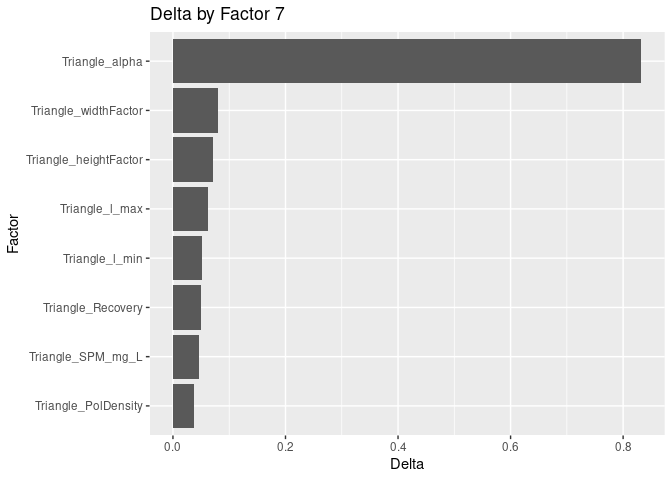
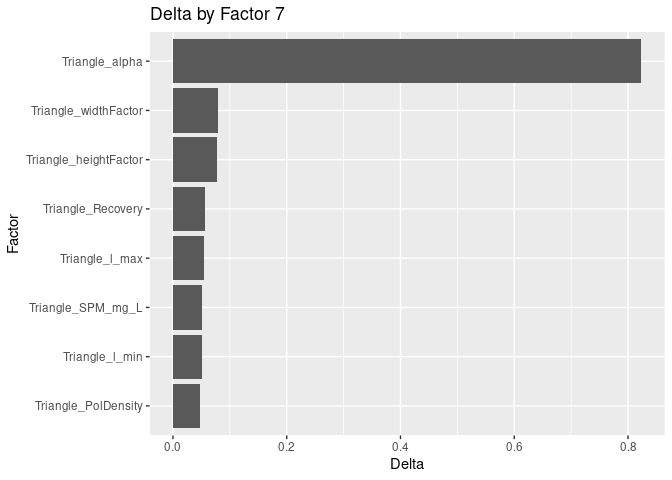
Rerun scripts with detection limit update

diff --git a/07_NumberFromMassConcentration.md b/07_NumberFromMassConcentration.md
@@ -1,6 +1,6 @@
 07_NumberFromMassConcentration
 ================
-2026-07-07
+2026-10-22
 
 Create figures folder if it does not yet exist
 
@@ -41,14 +41,14 @@ approach is applied.
 
 Below table illustrates an example of the dataset from Rijkswaterstaat.
 
-| lab | Inweeg (mg) | Water_type    | Analysis_method | Sampling_method | Location_name | Data_source           | Sample_no | unit | Sampling_date_from | Sampling_date_to | SPM_mg_L_avg | SPM_mg_L_median | SPM_mg_L_min | SPM_mg_L_max | SPM_n | Recovery_min | Recovery_max | Polymer | Concentration_g_kg |
-|:----|------------:|:--------------|:----------------|:----------------|:--------------|:----------------------|----------:|:-----|:-------------------|:-----------------|-------------:|----------------:|-------------:|-------------:|------:|-------------:|-------------:|:--------|-------------------:|
-| RWS |      21.000 | Surface water | TED GC-MS       | centrifuge      | Maas Eijsden  | Freriks et al. (2025) |        11 | g/kg | 2023-11-13         | 2023-11-13       |    58.000000 |            58.0 |           58 |           58 |     1 |         0.86 |          1.0 | PP      |              0.110 |
-| RWS |      18.980 | Surface water | TED GC-MS       | centrifuge      | Maas Eijsden  | Freriks et al. (2025) |        15 | g/kg | 2023-11-27         | 2023-11-27       |    38.000000 |            38.0 |           38 |           38 |     1 |         0.86 |          1.0 | PP      |              0.090 |
-| RWS |      21.050 | Surface water | TED GC-MS       | centrifuge      | Maas Eijsden  | Freriks et al. (2025) |        16 | g/kg | 2023-10-31         | 2023-10-31       |    33.500000 |            33.5 |           31 |           36 |     2 |         0.86 |          1.0 | PP      |              0.180 |
-| RWS |      19.950 | Surface water | TED GC-MS       | centrifuge      | Maas Eijsden  | Freriks et al. (2025) |        17 | g/kg | 2023-11-07         | 2023-11-07       |    37.000000 |            37.0 |           32 |           42 |     2 |         0.86 |          1.0 | PP      |              0.120 |
-| RWS |      17.485 | Surface water | TED GC-MS       | sediment kist   | Maas Eijsden  | Freriks et al. (2025) |        28 | g/kg | 2023-09-05         | 2023-10-03       |     5.976471 |             5.0 |            5 |           13 |    34 |         0.10 |          0.9 | PP      |              0.125 |
-| RWS |      20.060 | Surface water | TED GC-MS       | sediment kist   | Maas Eijsden  | Freriks et al. (2025) |        31 | g/kg | 2023-10-03         | 2023-10-31       |    10.129412 |             5.0 |            5 |           36 |    34 |         0.10 |          0.9 | PP      |              0.080 |
+| Laboratorium | Bemonsteringsdiepte (cm): | Inweeg (mg) | Water_type    | Analysis_method | Sampling_method | Location_name | Data_source           | Sample_no | unit | Sampling_date_from | Sampling_date_to | SPM_mg_L_avg | SPM_mg_L_median | SPM_mg_L_min | SPM_mg_L_max | SPM_n | Recovery_min | Recovery_max | Polymer | Concentration_g_kg |
+|:-------------|--------------------------:|------------:|:--------------|:----------------|:----------------|:--------------|:----------------------|----------:|:-----|:-------------------|:-----------------|-------------:|----------------:|-------------:|-------------:|------:|-------------:|-------------:|:--------|-------------------:|
+| RWS          |                        80 |      21.000 | Surface water | TED GC-MS       | centrifuge      | Maas Eijsden  | Freriks et al. (2025) |        11 | g/kg | 2023-11-13         | 2023-11-13       |    58.000000 |            58.0 |           58 |           58 |     1 |         0.86 |          1.0 | PP      |              0.110 |
+| RWS          |                        80 |      18.980 | Surface water | TED GC-MS       | centrifuge      | Maas Eijsden  | Freriks et al. (2025) |        15 | g/kg | 2023-11-27         | 2023-11-27       |    38.000000 |            38.0 |           38 |           38 |     1 |         0.86 |          1.0 | PP      |              0.090 |
+| RWS          |                        80 |      21.050 | Surface water | TED GC-MS       | centrifuge      | Maas Eijsden  | Freriks et al. (2025) |        16 | g/kg | 2023-10-31         | 2023-10-31       |    33.500000 |            33.5 |           31 |           36 |     2 |         0.86 |          1.0 | PP      |              0.180 |
+| RWS          |                        80 |      19.950 | Surface water | TED GC-MS       | centrifuge      | Maas Eijsden  | Freriks et al. (2025) |        17 | g/kg | 2023-11-07         | 2023-11-07       |    37.000000 |            37.0 |           32 |           42 |     2 |         0.86 |          1.0 | PP      |              0.120 |
+| RWS          |                       100 |      17.485 | Surface water | TED GC-MS       | sediment kist   | Maas Eijsden  | Freriks et al. (2025) |        28 | g/kg | 2023-09-05         | 2023-10-03       |     5.976471 |             5.0 |            5 |           13 |    34 |         0.10 |          0.9 | PP      |              0.125 |
+| RWS          |                       100 |      20.060 | Surface water | TED GC-MS       | sediment kist   | Maas Eijsden  | Freriks et al. (2025) |        31 | g/kg | 2023-10-03         | 2023-10-31       |    10.129412 |             5.0 |            5 |           36 |    34 |         0.10 |          0.9 | PP      |              0.080 |
 
 ## Polymer density
 
@@ -260,13 +260,13 @@ pyrGCMS_data |> pull(Polymer) |> unique()
 pyrGCMS_data |> pull(PolConc_ug_L) |> min()
 ```
 
-    ## [1] 0.2270576
+    ## [1] 0.3981628
 
 ``` r
 pyrGCMS_data |> pull(PolConc_ug_L) |> max()
 ```
 
-    ## [1] 121.8571
+    ## [1] 77.25816
 
 ``` r
 SPMnumber <- pyrGCMS_data |> group_by(Location_name,Sample_no,Sampling_date_from,Sampling_date_to,Sampling_method) |> 
@@ -439,7 +439,7 @@ summarise(
 ```
 
 ``` r
-ConcAlphaRescaledUncertain_PP_L <-readRDS(paste0(project_dir, output_dir, "Data/Rescaled_concentrations_PP_2026-04-09.Rds"))
+ConcAlphaRescaledUncertain_PP_L <-readRDS(paste0(project_dir, output_dir, "Data/Rescaled_concentrations_PP_2026-06-30.Rds"))
 
 PP_averages_table <- ConcAlphaRescaledUncertain_PP_L |>
   filter(OptionType == "concentrationOption3") |>
@@ -509,14 +509,14 @@ SampleNumber = 7 # change this to see how this is for different samples (see fig
     ## 
     ## Csiszar f-divergence indices with TV 
     ##      original
-    ## X1 0.04715257
-    ## X2 0.04997534
-    ## X3 0.03705562
-    ## X4 0.05204220
-    ## X5 0.06152164
-    ## X6 0.07978510
-    ## X7 0.07190987
-    ## X8 0.83226398
+    ## X1 0.05090330
+    ## X2 0.05565432
+    ## X3 0.04677197
+    ## X4 0.05073797
+    ## X5 0.05460519
+    ## X6 0.07983564
+    ## X7 0.07757698
+    ## X8 0.82329898
 
 ``` r
       #prepare output for ggplot

diff --git a/06_MassDataPrep.md b/06_MassDataPrep.md
@@ -9,13 +9,19 @@ letter report 2026-0069.
 
 The mass based data measured using TED-GC-MS are provided by
 Rijkswaterstaat (RWS) for surface waters in the Netherlands. The data is
-partly described in (Freriks, Oversteeg van, and Zemmelink 2023) and
-contains the concentrations of microplastics in SPM as sampled using a
-sediment box or centrifuge at Eijsden and Lobith.
+partly described in (Freriks et al. 2023) and contains the
+concentrations of microplastics in SPM as sampled using a sediment box
+or centrifuge at Eijsden and Lobith.
+
+Update release 2026.9.1: The raw data file read in in the chunk below
+was updated after the publication of RIVM letter report 2026-0069,
+because of a revision of the detection limits. This leads to the
+exclusion of 7 points of measurements that were present in the report,
+as these points now fall below the detection limit.
 
 ``` r
 # Read in raw RWS data
-RWS_raw <- read_excel(path = file.path(Input_dir, "RWS_2025/20250520 TED GC-MS data voor RIVM.xlsx"),
+RWS_raw <- read_excel(path = file.path(Input_dir, "RWS_2025/20250520 TED GC-MS data.xlsx"),
   skip = 12,
   col_names = TRUE) 
 ```
@@ -125,7 +131,7 @@ matched_suspended_matter_concentrations <-
   mutate(
     Polymer_sum_calculated = rowSums(across(all_of(c("NR", "PA6/66", "PE", "PET", "PMMA", "PP", "PS", "SBR"))), na.rm = TRUE)
   ) |> 
-  select(-c("Bemonsterd", "van:", "tot:", "Locatie:","Omschrijving",
+  select(-c("Bemonsterd", "Startdatum bemonstering", "Einddatum bemonstering", "Locatie:","Omschrijving",
              "paroms", "ehdcod", "cpmoms", "Location_name.y")) |> 
   rename(Location_name = Location_name.x)
 ```
@@ -181,21 +187,19 @@ write_rds(PP_SPM_Concentrations,
 
 <div id="ref-freriks2023" class="csl-entry">
 
-Freriks, I, C Oversteeg van, and H Zemmelink. 2023. “Op Weg Naar
+Freriks, I, C Oversteeg van, and H Zemmelink. 2023. *Op Weg Naar
 Microplastics Monitoring in Rivieren - Deel 2: Analyse van
-Microplastics.”
+Microplastics*.
 <https://open.rijkswaterstaat.nl/open-overheid/@259816/weg-microplastics-monitoring-rivieren/>.
 
 </div>
 
 <div id="ref-harhash2023" class="csl-entry">
 
-Harhash, Mohamed, Henning Schroeder, Alexander Zavarsky, Jan Kamp,
-Annika Linkhorst, Tim Lauschke, Georg Dierkes, Thomas A. Ternes, and
-Lars Duester. 2023. “Efficiency of Five Samplers to Trap Suspended
-Particulate Matter and Microplastic Particles of Different Sizes.”
-*Chemosphere* 338 (October): 139479.
-<https://doi.org/10.1016/j.chemosphere.2023.139479>.
+Harhash, Mohamed, Henning Schroeder, Alexander Zavarsky, et al. 2023.
+“Efficiency of Five Samplers to Trap Suspended Particulate Matter and
+Microplastic Particles of Different Sizes.” *Chemosphere* 338 (October):
+139479. <https://doi.org/10.1016/j.chemosphere.2023.139479>.
 
 </div>
 
